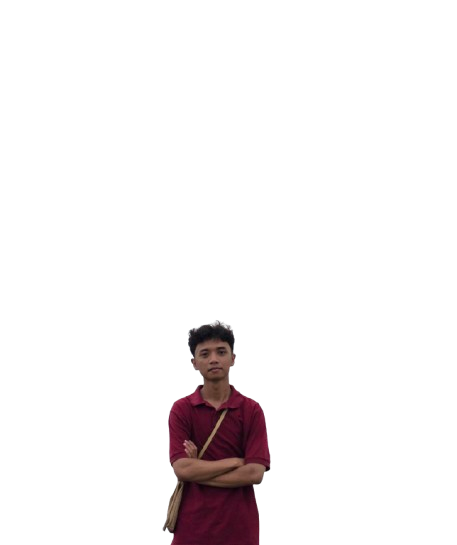
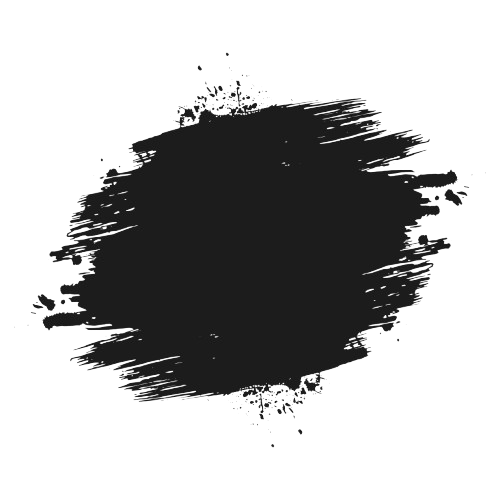
Refactor code structure for improved readability and maintainability

diff --git a/08-css-dasar/coba-background5.html b/08-css-dasar/coba-background5.html
@@ -1,0 +1,38 @@
+<!DOCTYPE html>
+<html lang="en">
+
+<head>
+   <meta charset="UTF-8">
+   <meta name="viewport" content="width=device-width, initial-scale=1.0">
+   <title>Coba background 5 - multiple background</title>
+   <style>
+      body {
+         background-color: rgb(0, 6, 10);
+         text-align: center;
+         font-family: 'Courier New', Courier, monospace;
+         color: #eee;
+         font-size: 35px;
+      }
+
+      .frame {
+         width: 500px;
+         height: 500px;
+         border: 3px solid #0022ff;
+         margin: auto;
+
+         background-image: url(img/profile.png), url(img/brush.png), url(img/wave.png);
+         background-repeat: no-repeat, no-repeat;
+         background-size: 180%, 100%, 100%;
+         background-position: center bottom, center, bottom left;
+         background-color: #eee;
+         border-radius: 50%;
+      }
+   </style>
+</head>
+
+<body>
+   <h1> adam daffa alghifari</h1>
+   <div class="frame"> </div>
+</body>
+
+</html>
